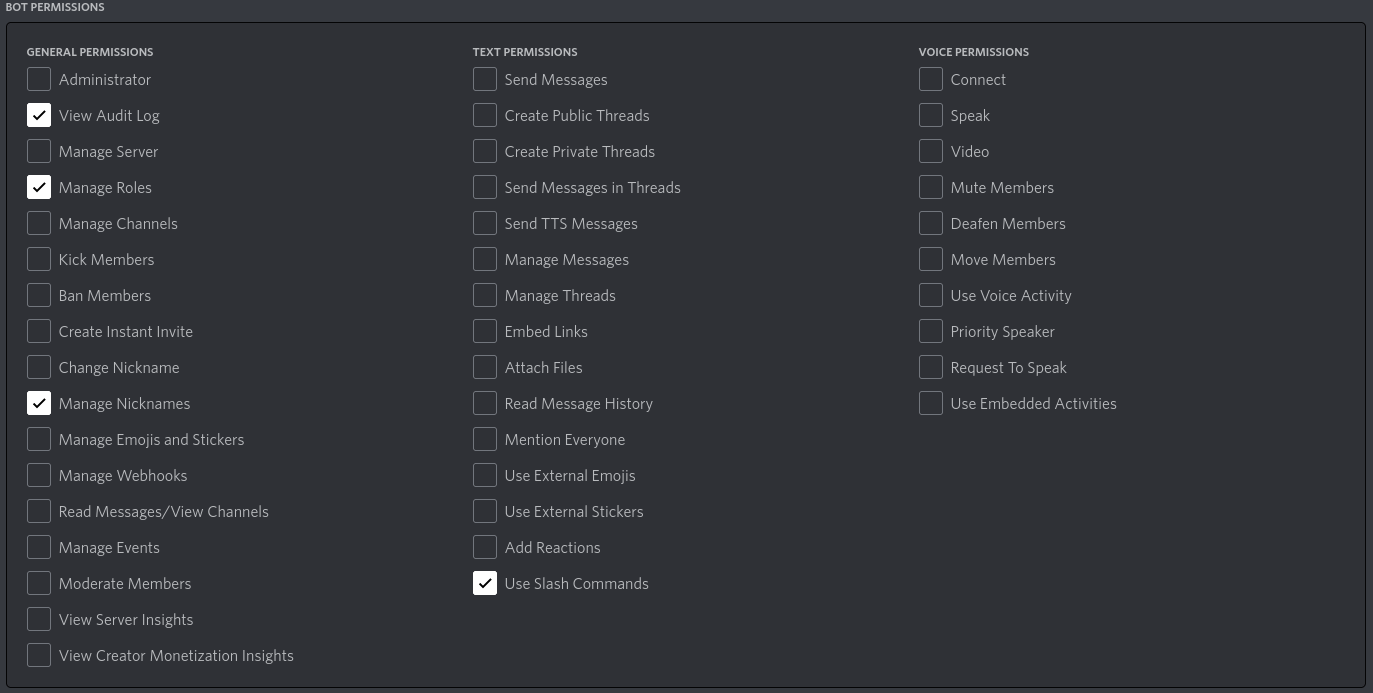
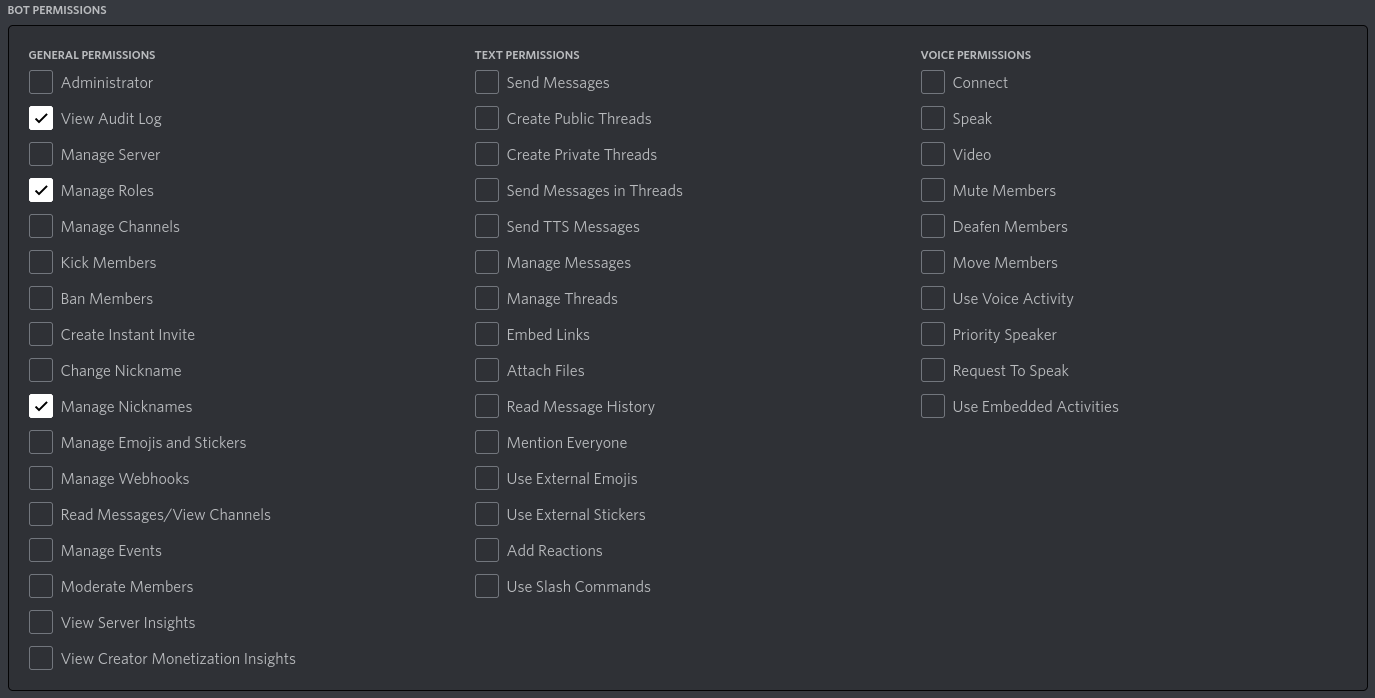
remove the use slash command permissions requirement

diff --git a/README.md b/README.md
@@ -66,7 +66,6 @@ On the `Bot Permissions` that appeared below, check the following fields:
 * `View Audit Log`
 * `Manages Roles`
 * `Manage Nicknames`
-* `Use Slash Commands`
 
 ![placeholder](/docs/bot_perms.png)
 
@@ -108,17 +107,17 @@ You need to go to the [google account settings Security](https://myaccount.googl
 
 ### Google Sheet
 
-Create a Google Sheet, with one sheet named "users" and another sheet named "guilds", with their first line like this:  
-#### users sheet :    
+Create a Google Sheet, with one sheet named "users" and another sheet named "guilds", with their first line like this:
+#### users sheet :
 user_id | name | email
 --- | --- | ---
 
-#### guils sheet :  
-guild_id | role_id | rename  
---- | --- | ---  
+#### guils sheet :
+guild_id | role_id | rename
+--- | --- | ---
 
-Leave the rest empty.  
-> See the sheet template : [ULBDiscordBot-DatabaseTemplate.ods](ULBDiscordBot-DatabaseTemplate.ods)  
+Leave the rest empty.
+> See the sheet template : [ULBDiscordBot-DatabaseTemplate.ods](ULBDiscordBot-DatabaseTemplate.ods)
 
 To generate google sheet api credentials, follow [this guide](https://medium.com/@a.marenkov/how-to-get-credentials-for-google-sheets-456b7e88c430). You will get a `.json` file with all the following fields:
 
@@ -163,8 +162,8 @@ python3 main.py
 ```
 
 ### Run with docker
-Make sure you have the [Docker Engine installed](https://docs.docker.com/engine/install/).  
-You can either run with docker directly, or with docker-compose.  
+Make sure you have the [Docker Engine installed](https://docs.docker.com/engine/install/).
+You can either run with docker directly, or with docker-compose.
 
 #### docker
 
